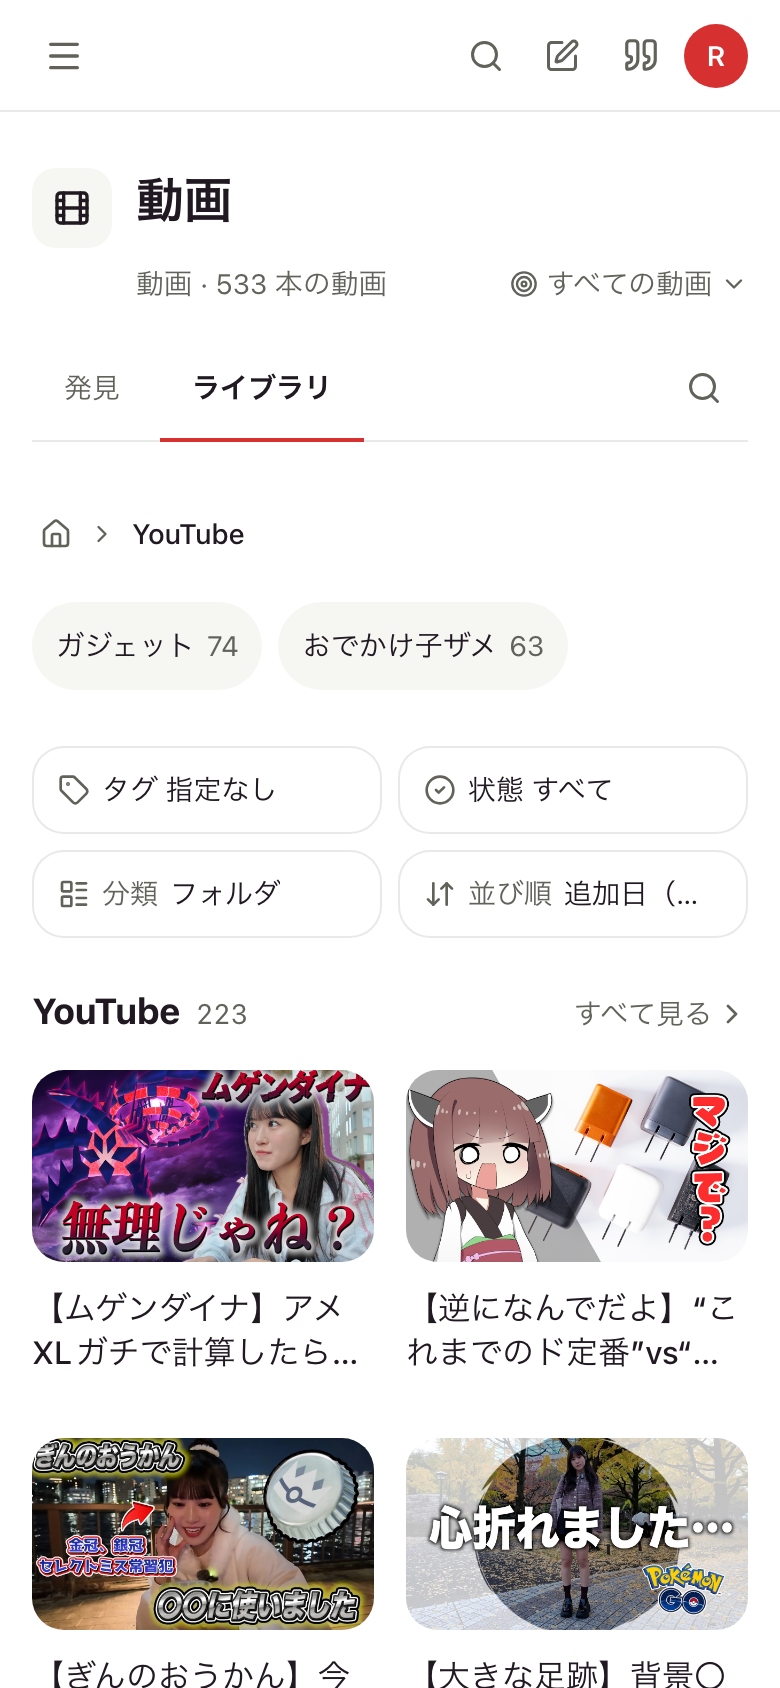
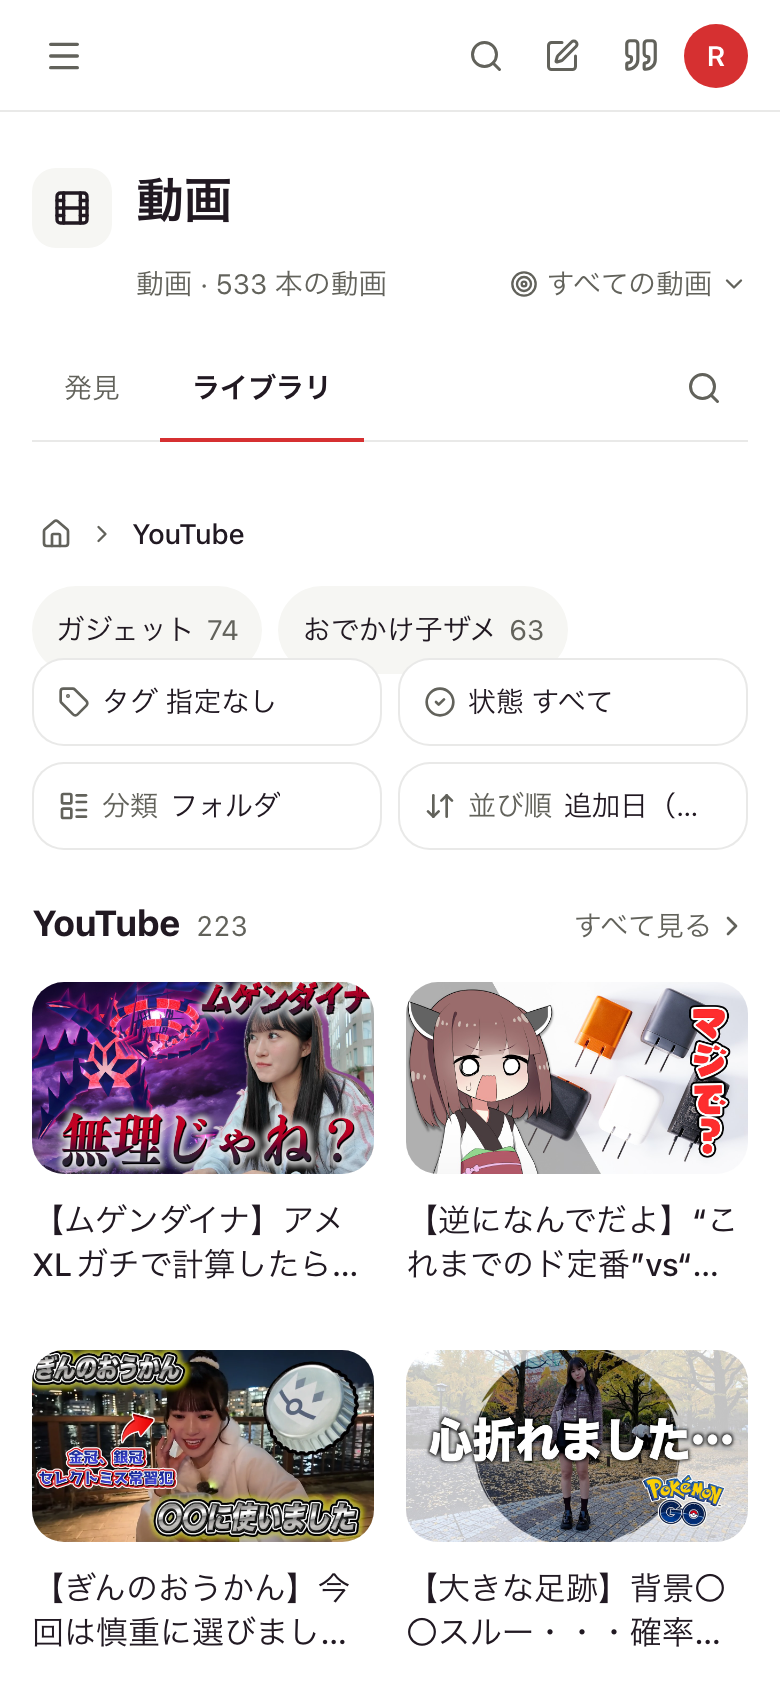
fix(apps): keep Video's control row below the folder rows on a touch screen
A negative bottom margin replaced the stack's gap and pulled the control row over the chips, so a tap on a chip's lower edge opened the tag menu.

diff --git a/frontend/e2e-components/fixtures/folderRows.tsx b/frontend/e2e-components/fixtures/folderRows.tsx
@@ -1,0 +1,90 @@
+/**
+ * The real Video and Reading Library faces at a folder position (`pos`, or the top
+ * when absent), with child folders under it unless `leaf` is set. `app` picks the face.
+ */
+
+import { useEffect, type ReactElement } from "react";
+import { NextIntlClientProvider } from "next-intl";
+
+import enMessages from "@/messages-core/en.json";
+import { LibraryFace as VideoLibraryFace } from "@/components/videoapp/LibraryFace";
+import { LibraryFace as ReadingLibraryFace } from "@/components/readingapp/LibraryFace";
+import { appRequests } from "@/lib/memberTarget";
+
+const DRIVE = "fixture";
+
+const json = (body: unknown) =>
+  Promise.resolve(
+    new Response(JSON.stringify(body), { status: 200, headers: { "Content-Type": "application/json" } }),
+  );
+
+function installFetch(leaf: boolean): void {
+  window.fetch = (input: RequestInfo | URL) => {
+    const raw = typeof input === "string" ? input : input instanceof URL ? input.href : input.url;
+    const url = new URL(raw, "http://fixture.invalid");
+    const q = url.searchParams;
+    if (url.pathname.includes("/tag-counts")) return json([]);
+    if (url.pathname.endsWith("/files")) return json({ data: [], meta: { total: 0, page: 1, limit: 1 } });
+    if (!url.pathname.endsWith("/shelves")) return json([]);
+    const by = q.get("by") ?? "all";
+    const base = q.get("folder") ?? "";
+    if (by === "folder" && q.get("shelf_limit") === "24") {
+      const names = leaf ? [] : ["Lectures", "Mathematics", "Physics", "Chemistry", "Statistics"];
+      const shelves = names.map((name) => {
+        const key = base === "" ? name : `${base}/${name}`;
+        return { key, label: name, count: 12, items: [] };
+      });
+      return json({ by, base, total_shelves: shelves.length, shelves });
+    }
+    return json({ by, base, total_shelves: 0, shelves: [] });
+  };
+}
+
+const noop = () => {};
+
+export function FolderRowsArrangement(): ReactElement {
+  const q = new URLSearchParams(location.search);
+  const app = q.get("app") ?? "video";
+  const position = q.get("pos");
+  installFetch(q.has("leaf"));
+
+  useEffect(() => {
+    document.body.dataset.harness = "ready";
+  }, []);
+
+  return (
+    <NextIntlClientProvider locale="en" messages={enMessages}>
+      <div className="bg-bg-primary px-4">
+        {app === "video" ? (
+          <VideoLibraryFace
+            drive={DRIVE}
+            params={{ type: ["video"] }}
+            requests={appRequests(null, null)}
+            empty={false}
+            group="folder"
+            hasProfile
+            position={position}
+            sortId="newest"
+            onGroup={noop}
+            onSort={noop}
+            onViewerRejected={noop}
+          />
+        ) : (
+          <ReadingLibraryFace
+            drive={DRIVE}
+            params={{ type: ["pdf", "epub", "archive"] }}
+            requests={appRequests(null, null)}
+            empty={false}
+            hasProfile
+            group="none"
+            position={position}
+            sortId="newest"
+            onGroup={noop}
+            onSort={noop}
+            onViewerRejected={noop}
+          />
+        )}
+      </div>
+    </NextIntlClientProvider>
+  );
+}

diff --git a/frontend/e2e-components/folder-rows.spec.ts b/frontend/e2e-components/folder-rows.spec.ts
@@ -1,0 +1,42 @@
+/**
+ * SPEC-CORE-165 / SPEC-CORE-166 D4: on a touch screen the folder rows and the control row
+ * below them do not overlap, so a tap anywhere on a crumb or a chip reaches it.
+ */
+
+import { test, expect } from "@playwright/test";
+import { pathToFileURL } from "node:url";
+
+import { PAGE } from "./build-bundle";
+
+const FIXTURE = pathToFileURL(PAGE).href;
+
+const CASES = [
+  { name: "top, chips only", query: "" },
+  { name: "a position with chips", query: "&pos=Videos" },
+  { name: "a leaf, crumbs only", query: "&pos=Videos%2FStudy&leaf=1" },
+];
+
+for (const app of ["video", "reading"]) {
+  for (const c of CASES) {
+    test(`SPEC-CORE-165 SPEC-CORE-166 D4 ${app} ${c.name}: the control row starts below the folder rows`, async ({ page }) => {
+      await page.goto(`${FIXTURE}?app=${app}${c.query}#folder-rows`);
+      await page.locator("body[data-harness=ready]").waitFor();
+      const tag = page.getByRole("button", { name: /^Tag/ });
+      await tag.waitFor();
+      const lastRow = c.query.includes("leaf") ? page.locator("[data-crumbs]") : page.locator("[data-chips]");
+      await lastRow.waitFor();
+
+      const rowBox = (await lastRow.boundingBox())!;
+      const tagBox = (await tag.boundingBox())!;
+      expect(tagBox.y).toBeGreaterThanOrEqual(rowBox.y + rowBox.height);
+
+      const item = lastRow.locator("a").first();
+      const box = (await item.boundingBox())!;
+      const hit = await page.evaluate(
+        ([x, y]) => document.elementFromPoint(x, y)?.closest("a")?.getAttribute("href") ?? null,
+        [box.x + box.width / 2, box.y + box.height - 2],
+      );
+      expect(hit).toBe(await item.getAttribute("href"));
+    });
+  }
+}

diff --git a/frontend/e2e-components/fixtures/app.tsx b/frontend/e2e-components/fixtures/app.tsx
@@ -107,6 +107,7 @@ import { HomeAppEntriesArrangement } from "./homeAppEntries";
 import { DiscoverPrefixArrangement } from "./discoverPrefix";
 import { VideoCardBylineArrangement } from "./videoCardByline";
 import { VideoCardSpacingArrangement } from "./videoCardSpacing";
+import { FolderRowsArrangement } from "./folderRows";
 import { AppHeaderArrangement } from "./appHeader";
 import { PersistentHighlightsArrangement } from "./persistentHighlights";
 import {
@@ -2850,6 +2851,7 @@ const ARRANGEMENTS: Record<string, () => ReactElement> = {
   "discover-prefix": DiscoverPrefixArrangement,
   "video-card-byline": VideoCardBylineArrangement,
   "video-card-spacing": VideoCardSpacingArrangement,
+  "folder-rows": FolderRowsArrangement,
   "app-header": AppHeaderArrangement,
   "persistent-highlights": PersistentHighlightsArrangement,
   "scenes-351": () => <ScenesSectionArrangement hostWidth={351} hostHeight={900} />,

diff --git a/frontend/src/components/videoapp/LibraryFace.tsx b/frontend/src/components/videoapp/LibraryFace.tsx
@@ -242,7 +242,7 @@ export function LibraryFace({
   return (
     <div className="space-y-6">
       {!empty && params !== null && (
-        <div className="space-y-3 pointer-coarse:-mb-3 pointer-coarse:space-y-1">
+        <div className="space-y-3 pointer-coarse:mb-3 pointer-coarse:space-y-1">
           <FolderPositionRows
             position={position}
             targetFolders={targetFolders}

diff --git a/docs/process/reviews/feature-app-folder-position/decisions.md b/docs/process/reviews/feature-app-folder-position/decisions.md
@@ -2,7 +2,7 @@
 
 decision:
 ran_in_app: yes
-at: 39409faa19a4f5f62ac646938a69d9b4197d5816
+at: 969bcd5d19f4c971d962bc886d8f5217db1ec85c
 by: agent
-evidence: Headless Chromium (Playwright 1.58.2) against the worktree's running stack at http://video-share-folder-position.localhost:3101 (cloned data, drive 動画), NEXT_LOCALE=ja, viewer profile cookie lit_viewer set so the 状態 control is drawn; desktop 1280x900 fine pointer, phone 390x844 isMobile+hasTouch (pointer:coarse true); request URLs captured at every step; screenshots in docs/process/reviews/feature-app-folder-position/r5/. Artboard map for the design check: Main -> video-desktop-YouTube.png (Video at YouTube, grouping Folder; this data has no Video position with both a link ancestor crumb and chips, so Main's "動画 > 学問" pair cannot be reproduced); States 上端 -> video-desktop-top.png; States 子フォルダなし -> video-desktop-leaf-ガジェット.png; States 空 -> video-desktop-empty.png; Phone -> video-phone-YouTube.png (also video-phone-top.png, video-phone-top-chips-scrolled.png, video-phone-leaf-ガジェット.png, video-phone-empty.png); Reading -> reading-desktop-Inbox.png (Reading at Inbox, grouping None: crumbs, no chip row, because no book folder in the clone has subfolders; see pending) and reading-desktop-top.png (chips, no crumbs). Video walk (all videos, grouping Folder): top draws no crumbs and chips YouTube 360 / アニメ 28 / テスト 9 / 写真 4 / AI-Drafts 1 (D5); chip YouTube from scrollY 1328 pushes ?folder=YouTube (history +1), scrollY 0, crumbs home link > YouTube (current, primary colour, weight 500), chips ガジェット 74 / おでかけ子ザメ 63; chip ガジェット -> crumbs home > YouTube link > ガジェット, no chip row (D6); crumb YouTube pushes; Back, Back, Forward restore each position with its shelves; reload keeps ?folder and the Library tab; home crumb pushes the top. Under a position every request carries folder: chips shelves?by=folder&type=video&folder=YouTube&per_shelf=1&shelf_limit=24 (never tag, watch or search), shelves, the None grid (shelves?by=all&key=all&...&folder=YouTube), tag candidates (tag-counts?type=video&folder=YouTube); See all links carry folder and from_folder, at the top neither. Header count 533 at every position (I15). Discover with ?folder=YouTube sends the same requests as without and draws no crumbs or chips (I3). Tag あんこ, state 未視聴 and name ポケモン chosen at YouTube: chips and crumbs unchanged and the chip request not resent (I6); chip, crumb and Back afterwards keep all three filters and the grouping (I7). localStorage/sessionStorage keys identical before and after a walk; no key or value holds a folder (I9). Video See all from YouTube requests shelves?by=folder&key=YouTube/ガジェット&...&folder=YouTube, draws no crumbs or chips, and its in-page link /apps/video?folder=YouTube reopens the Library at YouTube; a target chosen on See all drops folder and from_folder with replace and the link becomes /apps/video (I12, I13). Same target chosen: URL and history unchanged; Spirit or あんこ動画 chosen at a position: folder removed with replace, history length unchanged; Home shortcut ?target=<smart collection>&folder=アニメ: both removed in one replace, no request carried アニメ (I5). A folder-limited Smart Collection (path:YouTube, created in the clone and deleted afterwards): top draws plain crumbs 一番上 > YouTube from base; at YouTube/ガジェット the YouTube crumb is plain and home a link (I8); Back to ?folder=アニメ under it shows the empty state with crumbs and sends no shelves, grid, tag-count or chip request, also after switching to grouping None and opening the tag menu (I2; video-desktop-blocked-アニメ.png). Empty position ?folder=存在しない/フォルダ: requests sent, empty state under the crumbs (D7). Invalid ?folder= .. , a//b , ./x , YouTube/.. : removed with replace, no request carried folder (I10). Empty-kind targets: Reading with あんこ動画 at ?folder=Inbox shows この対象は使えません, Video with a type:pdf collection at ?folder=YouTube shows its no-files state; neither draws crumbs or chips nor sends a chip request; URL folder kept. Saved Reading target deleted then reload at ?folder=Inbox: default target, URL untouched, position applied. Induced failures (Playwright route): chip request 500 shows Retry in the chip row, crumbs from the position, shelves or grid drawn, Retry loads the chips (I11; video-desktop-chips-failed.png, reading-desktop-chips-failed.png); chip answers for YouTube delayed 4 s while moving home then アニメ were never drawn at アニメ (I14). Reading: top chips Inbox 5 / テスト 2; chip Inbox, Back, Forward, reload, See all with folder/from_folder and back link, empty Inbox/無い, invalid Inbox/../x and target change behave as in Video; header 15 throughout. Layout (computed): tabs above crumbs above chips above the control row (D1); fine pointer: crumbs wrap, no border or background, 14 px separators, plain segments cursor auto; chip row wraps with max-height 128px and overflow-y auto (D9); chips rgb(246,246,243), no border, rounded-full, muted count; coarse pointer: crumbs and chips nowrap with overflow-x auto, one line, every crumb and chip 44 px tall, page scrollWidth 390, top chip row scrolls sideways (scrollWidth 474 > 358) (D4). Accessible names: ja フォルダの位置 / 一番上, en Folder position / Top; readingApp.all absent from messages-core/ja.json. Difference from the spec (section 1.7, "in the same step that changes the target"): choosing another target while at a position first sends one round of chip and shelves/grid requests that carry the new target and the old folder (e.g. shelves?by=folder&type=video&folder=YouTube/ガジェット&collection=Spirit&per_shelf=1&shelf_limit=24), then the requests without folder after the URL replace; seen in Video (Spirit, あんこ動画) and Reading (Spirit). Also observed: with the tag menu open, the first click on a chip only closes the menu.
+evidence: Rerun against 969bcd5d1 (fix c51149ffb and coarse-pointer spacing 969bcd5d1), headless Chromium (Playwright 1.58.2) on the worktree stack http://video-share-folder-position.localhost:3101 (frontend bundle checked to contain the 969bcd5d1 classes), NEXT_LOCALE=ja, lit_viewer=r5, Library tab, every /api/ request and every history.pushState/replaceState call recorded. Target change at a position (desktop 1280x900): Video at ?folder=YouTube/ガジェット (crumbs home > YouTube > ガジェット) -> Spirit: requests after the click are shelves?by=folder&type=video&collection=Spirit&per_shelf=1&shelf_limit=24, shelves?by=folder&type=video&collection=Spirit&sort=created_at&order=desc&per_shelf=5&shelf_limit=12, files?type=video&collection=Spirit&limit=1, none carries folder; one replaceState to /apps/video, no pushState, history.length 3 before and after, crumbs gone. Video -> あんこ動画: same (shelves?by=folder&tag=あんこ&type=video...), no request with folder, one replaceState, history unchanged; afterwards a plain YouTube crumb is drawn from the target's base. Reading at ?folder=Inbox -> Spirit: shelves?by=folder&type=pdf&type=epub&type=archive&collection=Spirit..., shelves?by=all&key=all...&collection=Spirit..., none with folder; one replaceState to /apps/reading, history unchanged. The first run's difference (new target sent with the old folder) is no longer seen. Home shortcut: Video ?target=iJoo9-NqbcRO(あんこ動画)&folder=アニメ, Video ?target=collection:bG77f6xG21ju(Spirit)&folder=YouTube/ガジェット, Reading ?target=collection:bG77f6xG21ju&folder=Inbox: each ends at the bare /apps/<app> URL with one URL-changing replaceState that removes target and folder together (the only other call is Next's same-URL replaceState on load), no pushState, history.length unchanged, target button shows the shortcut's target, no request carries the old folder. Phone 390x844 isMobile+hasTouch (pointer:coarse true), dsf 2: retook r5/video-phone-YouTube.png and r5/video-phone-top.png; added r5/video-phone-leaf-ガジェット-969bcd5.png. Measured (CSS px): Video at YouTube crumbs 245-289, chip row 293-341 (chips 44 tall), control row box from 329, first control button 329-373: crumbs->chips 4, chips->control -12 (overlap; first chip 293-337 overlaps the タグ button by 8). Video top: chip row 245-293, first chip 245-289, first control button 281: chips->control -12, chip overlaps button by 8. Video at YouTube/ガジェット (crumbs only): crumbs 245-289, control button 277: -12. Reading at Inbox (crumbs only): crumbs->control +12; Reading top (chips only): chips->control +12. Page scrollWidth 390 everywhere. Difference: on a coarse pointer in Video the control row overlaps the folder row above it by 12 px (wrapper pointer-coarse:-mb-3). In both screenshots the chips' rounded bottoms are covered by the タグ / 状態 buttons, and elementFromPoint at a chip's bottom 3 px (and at the crumb row's bottom at a leaf) returns the タグ button; a touch tap there on the top level opened the tag menu and did not move to ?folder=YouTube. Reading has no such overlap. First run (at 39409faa1), for everything else: Headless Chromium (Playwright 1.58.2) against the worktree's running stack at http://video-share-folder-position.localhost:3101 (cloned data, drive 動画), NEXT_LOCALE=ja, viewer profile cookie lit_viewer set so the 状態 control is drawn; desktop 1280x900 fine pointer, phone 390x844 isMobile+hasTouch (pointer:coarse true); request URLs captured at every step; screenshots in docs/process/reviews/feature-app-folder-position/r5/. Artboard map for the design check: Main -> video-desktop-YouTube.png (Video at YouTube, grouping Folder; this data has no Video position with both a link ancestor crumb and chips, so Main's "動画 > 学問" pair cannot be reproduced); States 上端 -> video-desktop-top.png; States 子フォルダなし -> video-desktop-leaf-ガジェット.png; States 空 -> video-desktop-empty.png; Phone -> video-phone-YouTube.png (also video-phone-top.png, video-phone-top-chips-scrolled.png, video-phone-leaf-ガジェット.png, video-phone-empty.png); Reading -> reading-desktop-Inbox.png (Reading at Inbox, grouping None: crumbs, no chip row, because no book folder in the clone has subfolders; see pending) and reading-desktop-top.png (chips, no crumbs). Video walk (all videos, grouping Folder): top draws no crumbs and chips YouTube 360 / アニメ 28 / テスト 9 / 写真 4 / AI-Drafts 1 (D5); chip YouTube from scrollY 1328 pushes ?folder=YouTube (history +1), scrollY 0, crumbs home link > YouTube (current, primary colour, weight 500), chips ガジェット 74 / おでかけ子ザメ 63; chip ガジェット -> crumbs home > YouTube link > ガジェット, no chip row (D6); crumb YouTube pushes; Back, Back, Forward restore each position with its shelves; reload keeps ?folder and the Library tab; home crumb pushes the top. Under a position every request carries folder: chips shelves?by=folder&type=video&folder=YouTube&per_shelf=1&shelf_limit=24 (never tag, watch or search), shelves, the None grid (shelves?by=all&key=all&...&folder=YouTube), tag candidates (tag-counts?type=video&folder=YouTube); See all links carry folder and from_folder, at the top neither. Header count 533 at every position (I15). Discover with ?folder=YouTube sends the same requests as without and draws no crumbs or chips (I3). Tag あんこ, state 未視聴 and name ポケモン chosen at YouTube: chips and crumbs unchanged and the chip request not resent (I6); chip, crumb and Back afterwards keep all three filters and the grouping (I7). localStorage/sessionStorage keys identical before and after a walk; no key or value holds a folder (I9). Video See all from YouTube requests shelves?by=folder&key=YouTube/ガジェット&...&folder=YouTube, draws no crumbs or chips, and its in-page link /apps/video?folder=YouTube reopens the Library at YouTube; a target chosen on See all drops folder and from_folder with replace and the link becomes /apps/video (I12, I13). Same target chosen: URL and history unchanged; Spirit or あんこ動画 chosen at a position: folder removed with replace, history length unchanged; Home shortcut ?target=<smart collection>&folder=アニメ: both removed in one replace, no request carried アニメ (I5). A folder-limited Smart Collection (path:YouTube, created in the clone and deleted afterwards): top draws plain crumbs 一番上 > YouTube from base; at YouTube/ガジェット the YouTube crumb is plain and home a link (I8); Back to ?folder=アニメ under it shows the empty state with crumbs and sends no shelves, grid, tag-count or chip request, also after switching to grouping None and opening the tag menu (I2; video-desktop-blocked-アニメ.png). Empty position ?folder=存在しない/フォルダ: requests sent, empty state under the crumbs (D7). Invalid ?folder= .. , a//b , ./x , YouTube/.. : removed with replace, no request carried folder (I10). Empty-kind targets: Reading with あんこ動画 at ?folder=Inbox shows この対象は使えません, Video with a type:pdf collection at ?folder=YouTube shows its no-files state; neither draws crumbs or chips nor sends a chip request; URL folder kept. Saved Reading target deleted then reload at ?folder=Inbox: default target, URL untouched, position applied. Induced failures (Playwright route): chip request 500 shows Retry in the chip row, crumbs from the position, shelves or grid drawn, Retry loads the chips (I11; video-desktop-chips-failed.png, reading-desktop-chips-failed.png); chip answers for YouTube delayed 4 s while moving home then アニメ were never drawn at アニメ (I14). Reading: top chips Inbox 5 / テスト 2; chip Inbox, Back, Forward, reload, See all with folder/from_folder and back link, empty Inbox/無い, invalid Inbox/../x and target change behave as in Video; header 15 throughout. Layout (computed): tabs above crumbs above chips above the control row (D1); fine pointer: crumbs wrap, no border or background, 14 px separators, plain segments cursor auto; chip row wraps with max-height 128px and overflow-y auto (D9); chips rgb(246,246,243), no border, rounded-full, muted count; coarse pointer: crumbs and chips nowrap with overflow-x auto, one line, every crumb and chip 44 px tall, page scrollWidth 390, top chip row scrolls sideways (scrollWidth 474 > 358) (D4). Accessible names: ja フォルダの位置 / 一番上, en Folder position / Top; readingApp.all absent from messages-core/ja.json. Difference from the spec (section 1.7, "in the same step that changes the target"): choosing another target while at a position first sends one round of chip and shelves/grid requests that carry the new target and the old folder (e.g. shelves?by=folder&type=video&folder=YouTube/ガジェット&collection=Spirit&per_shelf=1&shelf_limit=24), then the requests without folder after the URL replace; seen in Video (Spirit, あんこ動画) and Reading (Spirit). Also observed: with the tag menu open, the first click on a chip only closes the menu.
 pending: Reading walked two levels down and back, and the Reading artboard state with crumbs and chips together: the clone's books sit one level deep on both drives (動画: Inbox, テスト; テスト画像: epub, docs), and drives are read-only, so it needs data with nested book folders. Also not exercised: the D9 vertical scroll of a chip box that overflows 8 rem (no level has enough chips), member targets (POST .../shelves/query), crumb hover colour. agent_cannot_verify items in PROJECT.md are not touched by this frontend change.
